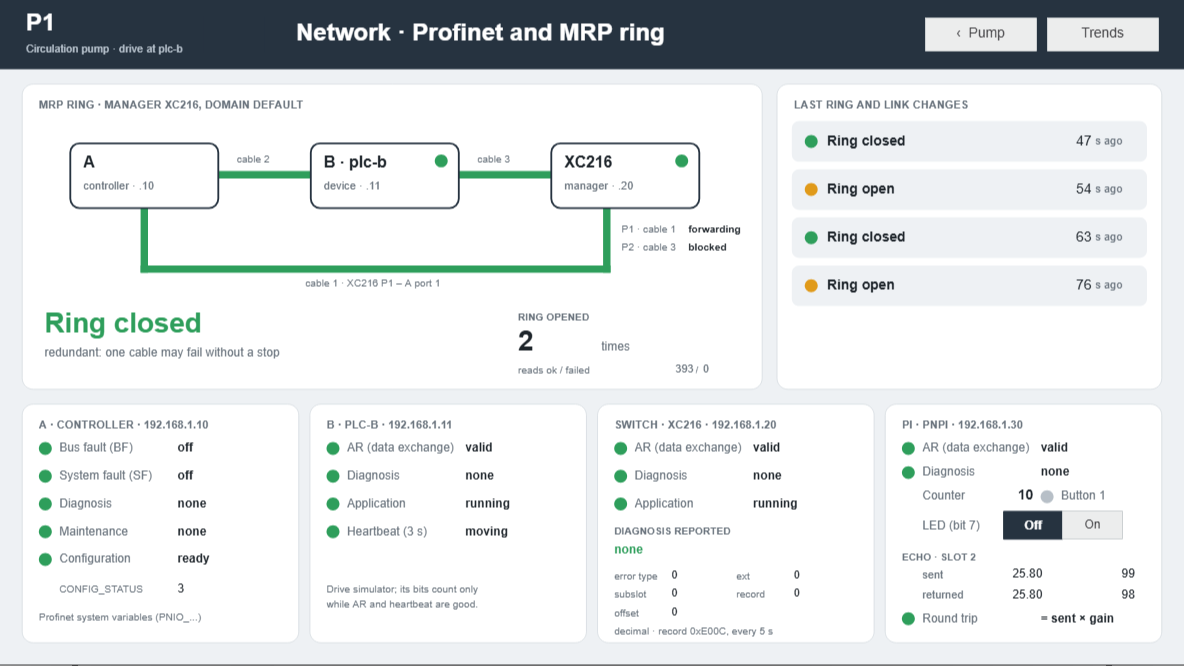
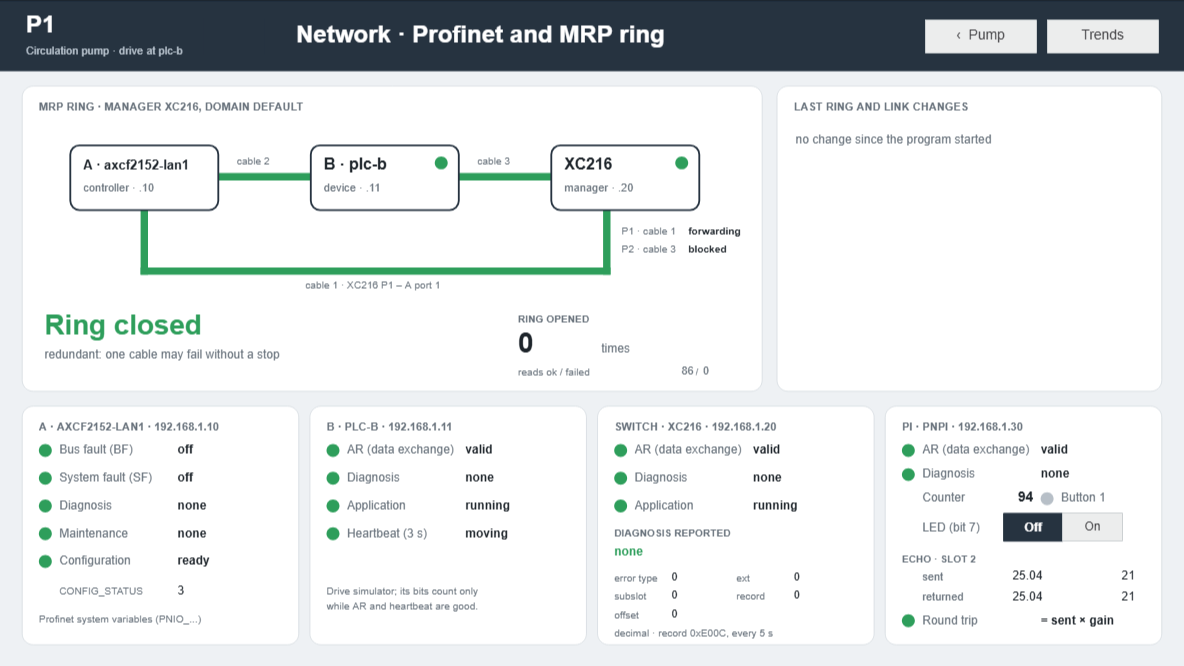
profinet-mrp-ring: controller A labelled with its station name, new Network page screenshot

diff --git a/examples/profinet-mrp-ring/a/hmi.py b/examples/profinet-mrp-ring/a/hmi.py
@@ -446,11 +446,11 @@ def network():
         for k, (cond, txt, col) in enumerate([("%s AND %s = 2" % (lk, st), "blocked", INK),
                                               ("%s AND %s = 5" % (lk, st), "forwarding", INK), ("NOT " + lk, "no link", AMBER)]):
             p.text("Pt%dS%d" % (n, k), 744, y, 76, 18, txt, size=11, weight=700, color=col, visible=cond)
-    for oid, x, name, sub, ar in [("NA", 76, "A", "controller · .10", None), ("NB", 336, "B · plc-b", "device · .11", "NB_AR"),
+    for oid, x, name, sub, ar in [("NA", 76, "A · axcf2152-lan1", "controller · .10", None), ("NB", 336, "B · plc-b", "device · .11", "NB_AR"),
                                   ("NX", 596, "XC216", "manager · .20", "NX_AR")]:
         kw = {"fill_by": (D + ar, [(0, RED_L), (1, CARD)])} if ar else {}
         p.rect(oid, x, 156, 160, 70, fill=CARD, line=SLATE, line_width=2, radius=10, **kw)
-        p.text(oid + "T", x + 14, 166, 140, 24, name, size=17, weight=700, color=INK)
+        p.text(oid + "T", x + 14, 166, 144, 24, name, size=17 if len(name) < 12 else 14, weight=700, color=INK)
         p.text(oid + "S", x + 14, 194, 140, 18, sub, size=12, color=DIM)
         if ar:
             p.ellipse(oid + "L", x + 134, 168, 14, 14, fill=OK, line_width=0, fill_by=(D + ar, [(0, RED), (1, OK)]))
@@ -495,7 +495,7 @@ def network():
     CW, CY, CH = 299, 438, 258                          # card width, top, height; x = 24, 335, 646, 957
     xa, xb, xx, xp = 24, 24 + (CW + 12), 24 + 2 * (CW + 12), 24 + 3 * (CW + 12)
 
-    card(p, "Ca", xa, CY, CW, CH, "A · controller · 192.168.1.10")
+    card(p, "Ca", xa, CY, CW, CH, "A · axcf2152-lan1 · 192.168.1.10")
     x = xa + 18
     lamp_row("Ca1", x, 476, "Bus fault (BF)", "NOT " + D + "PN_BF", "device missing", "off")
     lamp_row("Ca2", x, 506, "System fault (SF)", "NOT " + D + "PN_SF", "on", "off")
